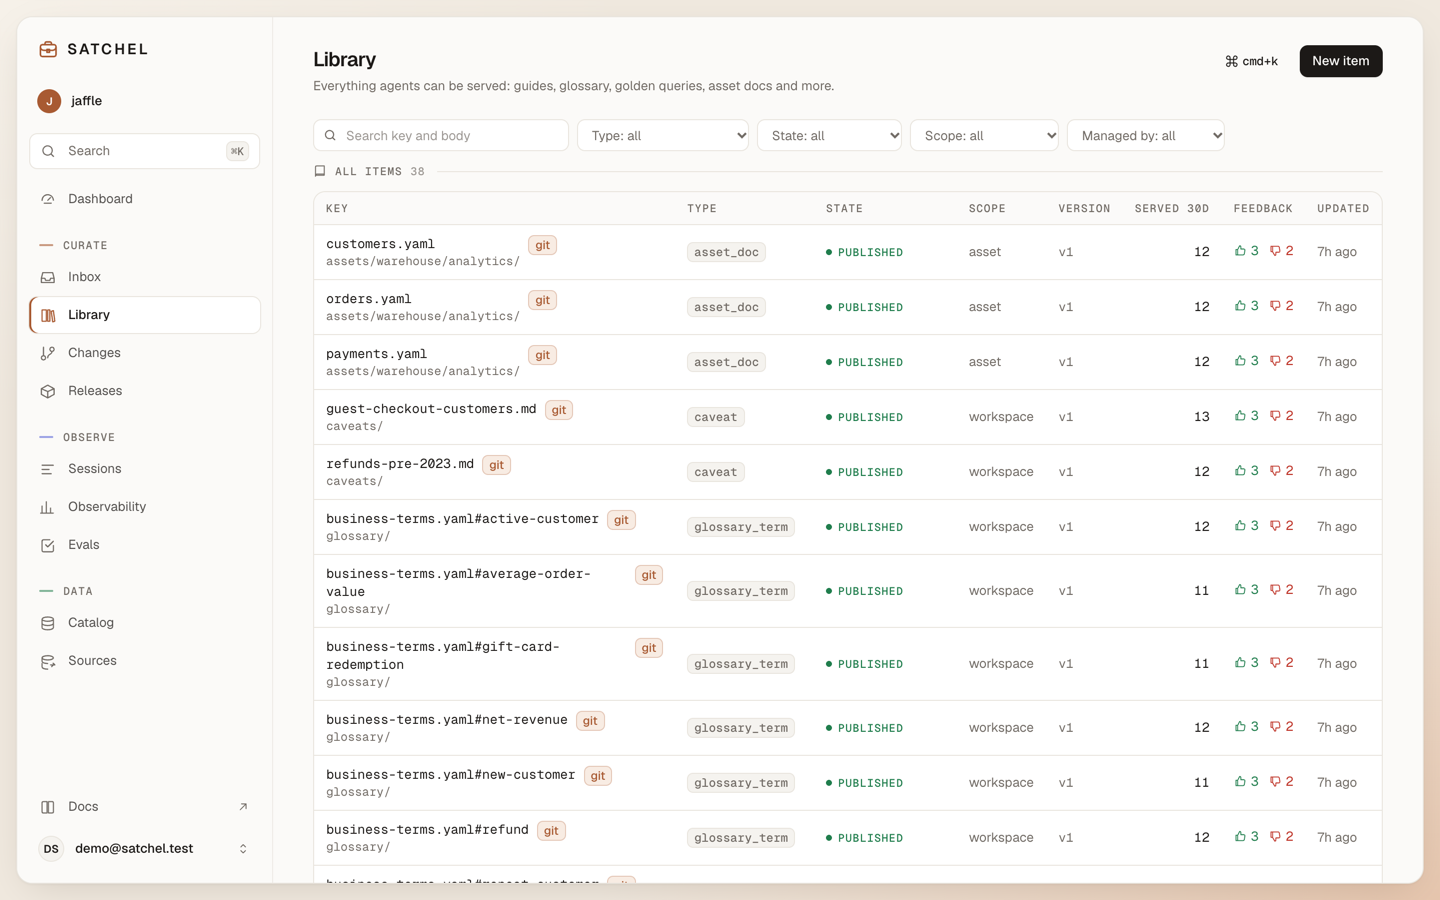
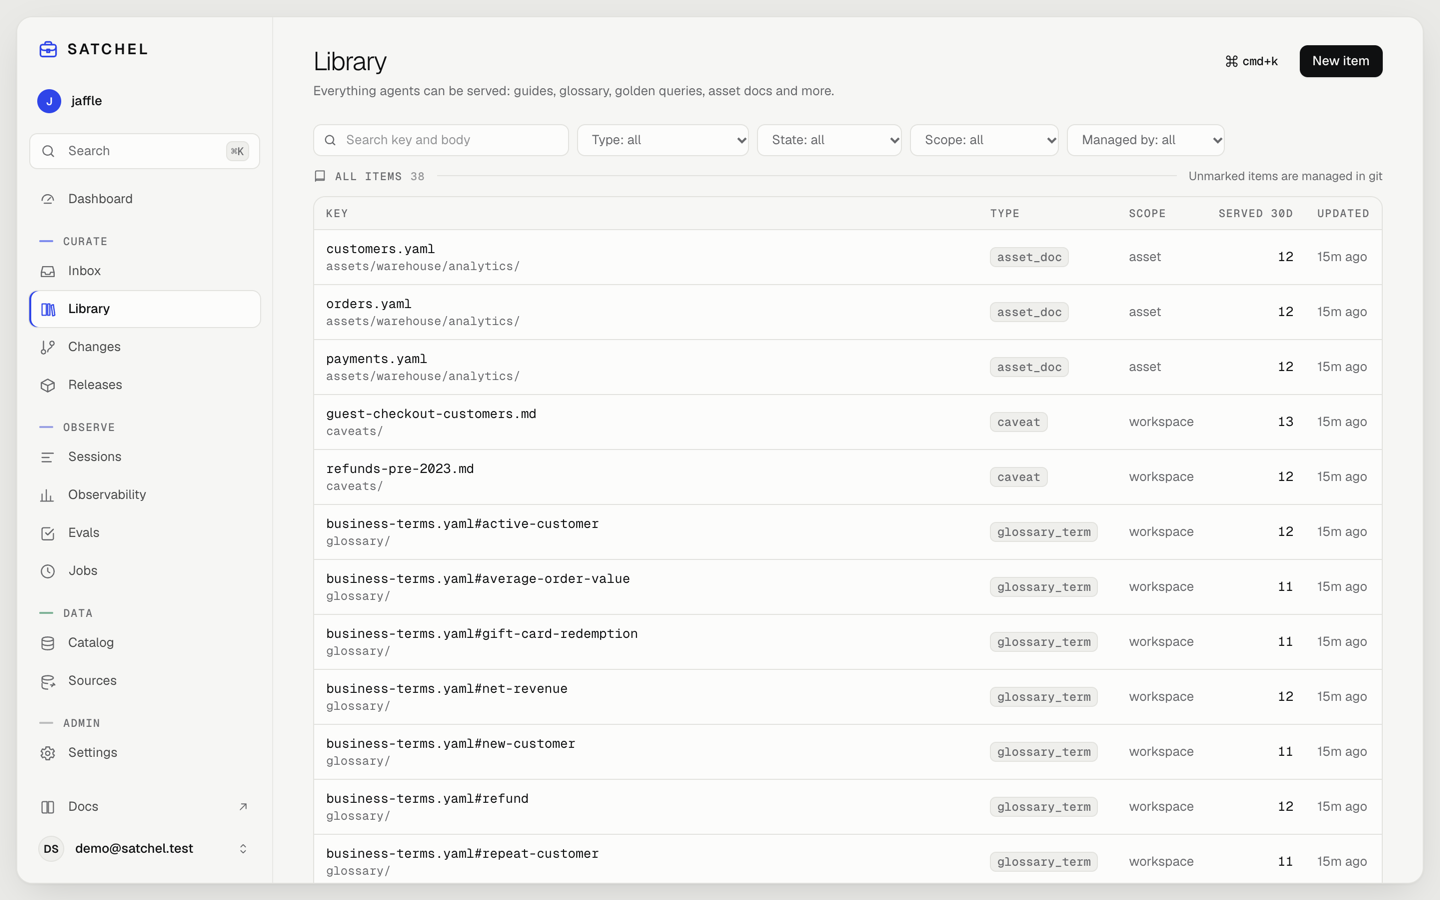
Fit the sidebar nav on a 900px screen; recapture the screenshots
The active Dashboard row sat directly in the scrolling nav and shrank when
the nav overflowed. Nav rows no longer shrink, and slightly tighter group
spacing lets the whole nav (now with Jobs and Settings) fit at 1440x900.

docs/screenshots/ is recaptured in the ink-on-paper palette from a seeded
demo workspace, including the two the README shows.

diff --git a/ui/src/components/Shell.tsx b/ui/src/components/Shell.tsx
@@ -14,7 +14,7 @@ function NavRow({ n }: { n: NavItem }) {
     <NavLink
       to={n.to}
       className={({ isActive }) =>
-        `flex h-10 items-center gap-3 rounded-md px-2.5 text-sm transition-colors md:h-9 ${
+        `flex h-10 shrink-0 items-center gap-3 rounded-md px-2.5 text-sm transition-colors md:h-9 ${
           isActive ? "bg-surface font-medium text-ink shadow-[inset_2px_0_0_rgb(var(--accent)),0_0_0_1px_rgb(var(--line))]" : "text-ink/75 hover:bg-sunken hover:text-ink"
         }`
       }
@@ -130,11 +130,11 @@ function ShellBody() {
             <SearchRow />
           </div>
 
-          <nav aria-label="Main" className="flex flex-1 flex-col overflow-y-auto px-3 pb-3 pt-1">
+          <nav aria-label="Main" className="flex flex-1 flex-col overflow-y-auto px-3 pb-1 pt-1">
             <NavRow n={DASHBOARD} />
             {NAV_GROUPS.map((g) => (
-              <div key={g.label} className="mt-5" role="group" aria-labelledby={`nav-${g.label}`}>
-                <div className="mb-1.5 flex items-center gap-2.5 px-2.5">
+              <div key={g.label} className="mt-4" role="group" aria-labelledby={`nav-${g.label}`}>
+                <div className="mb-1 flex items-center gap-2.5 px-2.5">
                   <span className={`h-0.5 w-3.5 rounded-full ${g.dash}`} aria-hidden />
                   <span id={`nav-${g.label}`} className="label-caps">
                     {g.label}
